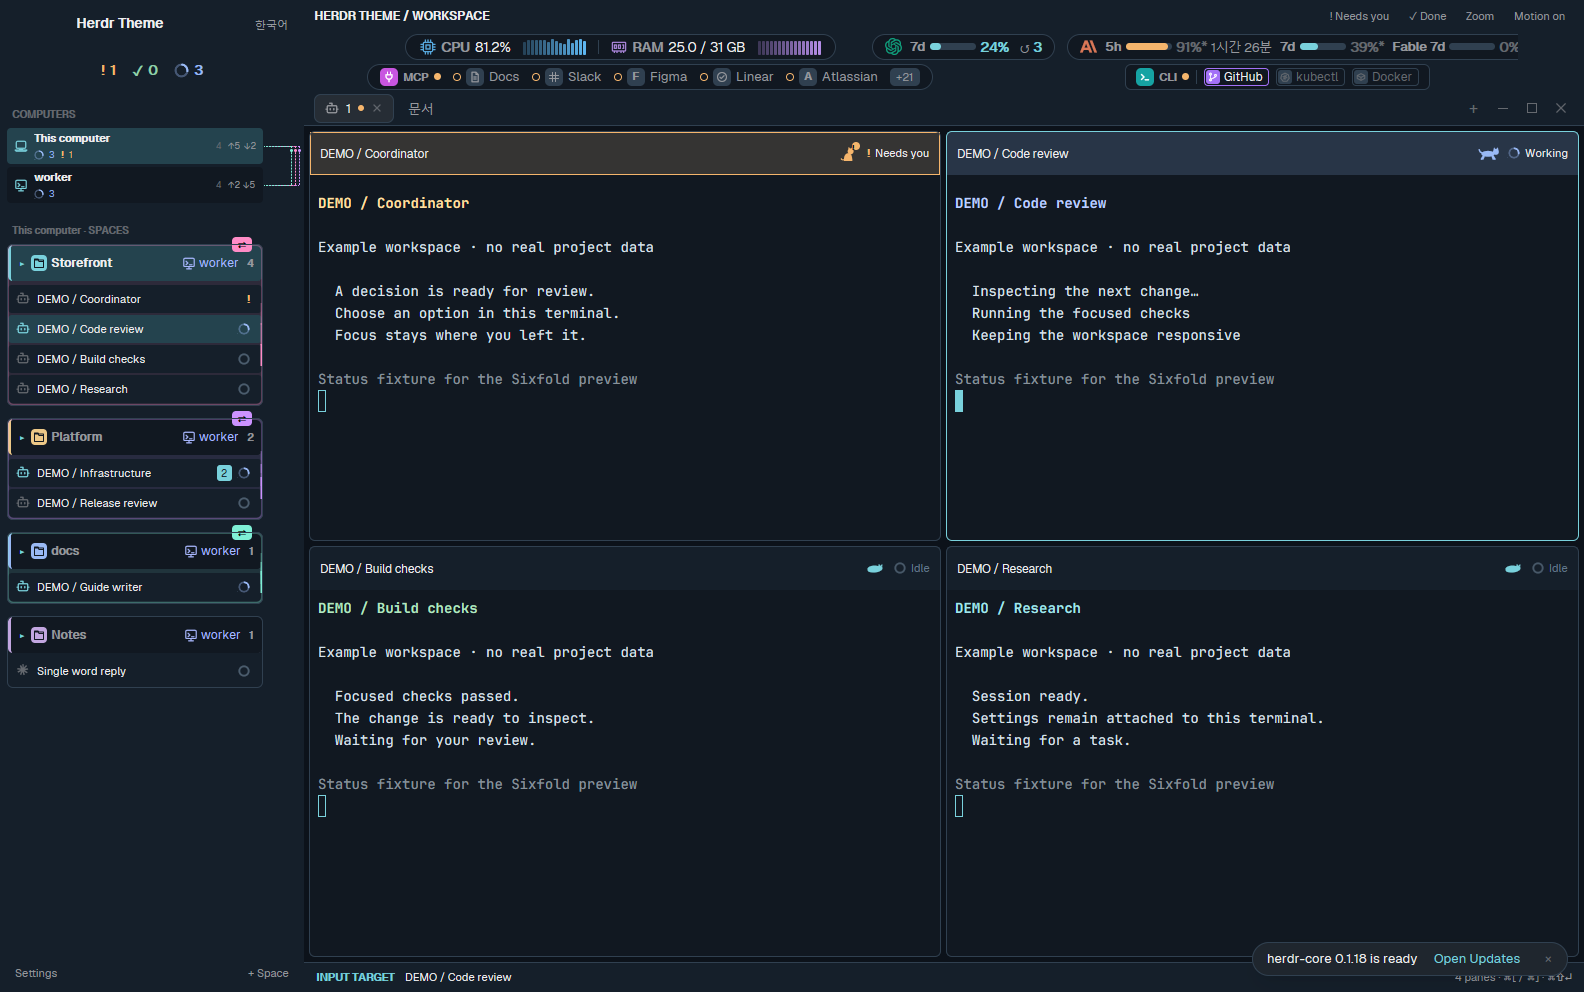
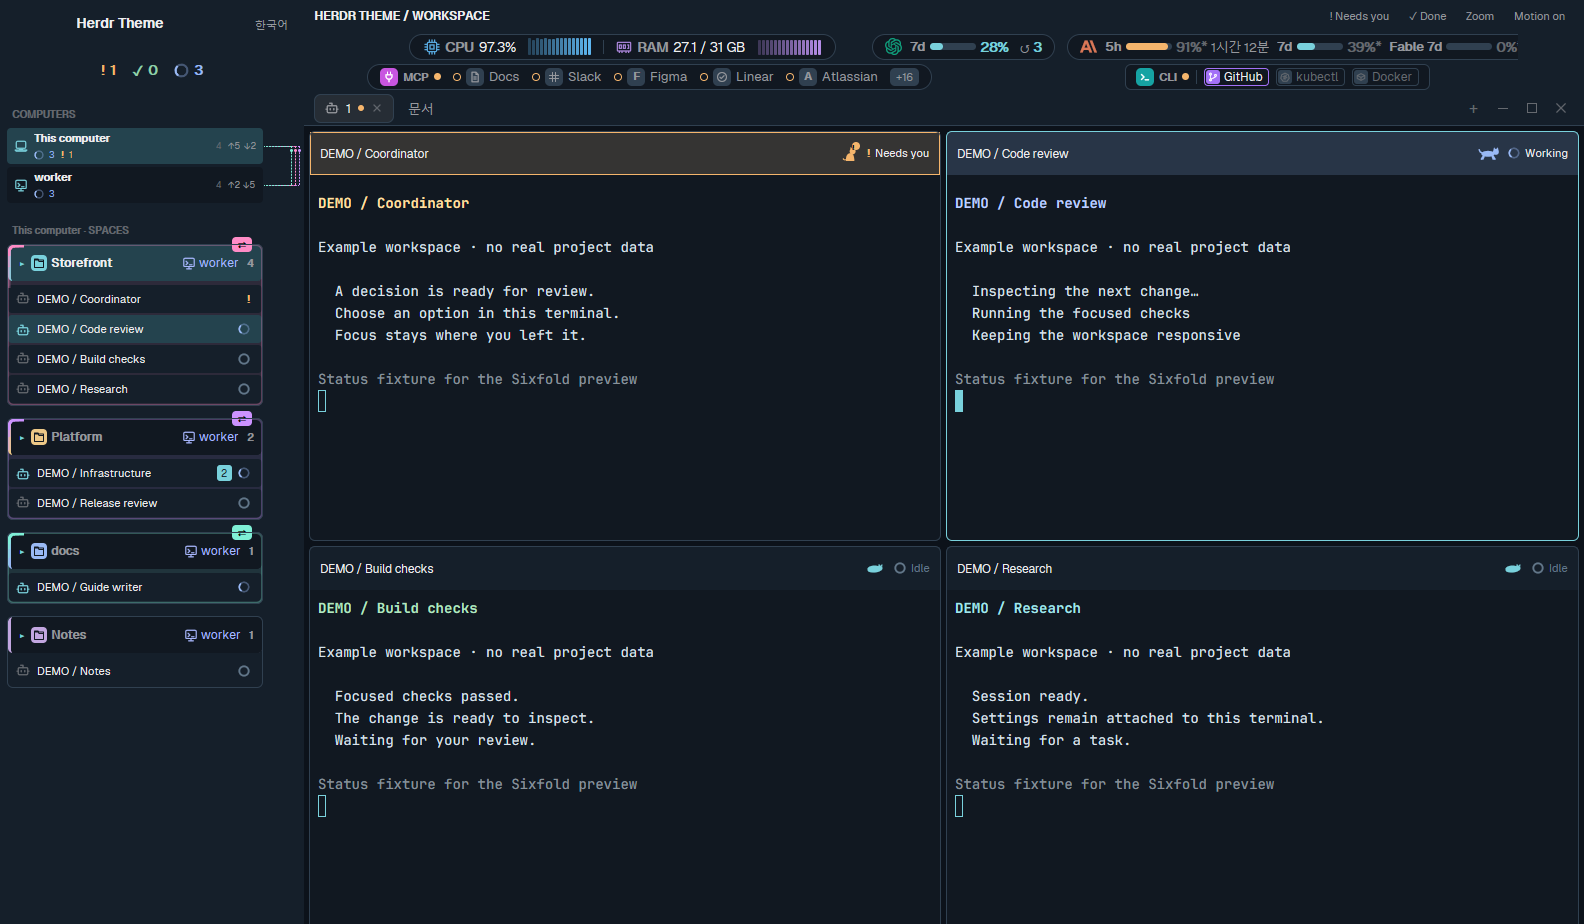
docs: show a native UI animation cycle in the README hero

diff --git a/README.ko.md b/README.ko.md
@@ -2,11 +2,11 @@
 
 여러 프로젝트와 여러 컴퓨터의 코딩 에이전트를 왼쪽 패널 하나에서 살펴보는 Herdr 테마입니다. 모든 워크스페이스와 에이전트, 동시에 오가는 메시지(컴퓨터 사이 전송 포함), 두 대 이상의 컴퓨터에서 함께 작업 중인 프로젝트를 보고, CPU·RAM, MCP 연결, 계정 CLI, 요금제 한도, 세션별 토큰 사용량을 현재 터미널을 떠나지 않고 확인합니다.
 
-![Windows의 Herdr Theme: 컴퓨터 두 대, Storefront 공동 작업, 모니터 줄](preview.png)
+![Windows의 Herdr Theme: 컴퓨터 두 대, Storefront 공동 작업, 모니터 줄](preview.gif)
 
 [English](README.md)
 
-스크린샷은 Windows 11의 실제 앱(Herdr 앱 0.1.12, 코어 0.1.17)에서 예시 워크스페이스로 찍었습니다. 두 번째 컴퓨터 "worker"는 합성한 것이고, 모니터 줄은 이 기기의 실제 값입니다.
+반복 GIF와 스크린샷은 Windows 11 실제 앱의 데모 워크스페이스를 담았습니다. 두 번째 컴퓨터 "worker"와 그 사이드바 데이터(전송 이벤트 포함)만 합성이고, 모니터 줄은 이 기기의 실제 값입니다. 12초 반복 영상에서 전송이 협업 테두리 혜성으로 이어졌다가 숨쉬기로 돌아옵니다. [정지 이미지](preview.png).
 
 ## 구성
 

diff --git a/README.md b/README.md
@@ -2,11 +2,11 @@
 
 Coordinate coding agents across projects and computers from one live sidebar. See every workspace and agent, follow concurrent messages (including sends between computers), see which projects are being worked on from more than one computer, and keep CPU/RAM, MCP connections, account CLIs, plan limits and per-session token use in view — without leaving your current terminal.
 
-![Herdr Theme on Windows: two computers, shared work on Storefront, the monitor strip](preview.png)
+![Herdr Theme on Windows: two computers, shared work on Storefront, the monitor strip](preview.gif)
 
 [한국어](README.ko.md)
 
-The screenshots are of the real app on Windows 11 (Herdr app 0.1.12, core 0.1.17) with labelled demo workspaces; the second computer, "worker", is synthetic. The monitor strip shows this machine's real readings.
+The looping GIF and screenshots show the real app on Windows 11 with labelled demo workspaces. Only the second computer, "worker", and its sidebar data (including send events) are synthetic. The monitor strip shows this machine's real readings. The 12-second loop follows a send into the collaboration-border comet and back to breathing. [Still image](preview.png).
 
 ## What you get
 
